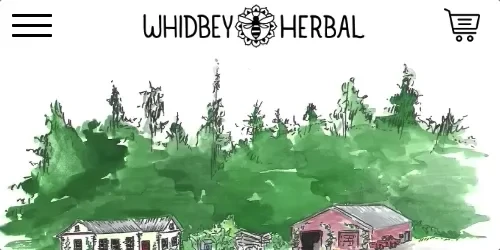
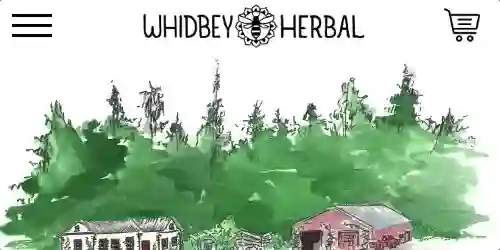
use whidbeyHerbalThumb instead of whidbeyHerbalThumbSmall

diff --git a/components/CircleContainer/Video.tsx b/components/CircleContainer/Video.tsx
@@ -4,14 +4,23 @@ import { ProjectModel } from "../../models/appState";
 import { devices } from "../../utils/cssBreakpoints";
 
 const StyledImg = styled.img`
+  position: relative;
+  display: block;
+  height: 100%;
+  margin: 0 auto;
   opacity: ${({ isVideoLoaded }) => (isVideoLoaded ? 0 : 1)};
+  @media ${devices.mobileLandscape} {
+    position: absolute;
+    height: auto;
+    bottom: 0;
+  }
 `;
 
 const StyledVideo = styled.video`
   position: relative;
   display: block;
   height: 100%;
-  margin: ${({ hidden }) => (hidden ? "-9999px" : "0 auto")};
+  margin: 0 auto;
   opacity: ${({ isVideoLoaded }) => (isVideoLoaded ? 1 : 0)};
   @media ${devices.mobileLandscape} {
     position: absolute;

diff --git a/state/initState.tsx b/state/initState.tsx
@@ -3,7 +3,7 @@ import AppStateModel from "../models/appState";
 // To Tyler: in projects, I'm storing these paths to their respective webm / mp4 files
 const whidbeyHerbalWebm = "../images/whidbeyHerbalWebm.webm";
 const whidbeyHerbalMp4 = "../images/whidbeyHerbalMp4.mp4";
-const whidbeyHerbalThumb = "../images/whidbeyHerbalThumbSmall.webp";
+const whidbeyHerbalThumb = "../images/whidbeyHerbalThumb.webp";
 const chatAppWebm = "../images/chatAppWebm.webm";
 const chatAppMp4 = "../images/chatAppMp4.mp4";
 const chatAppThumb = "../images/chatAppThumb.webp";
